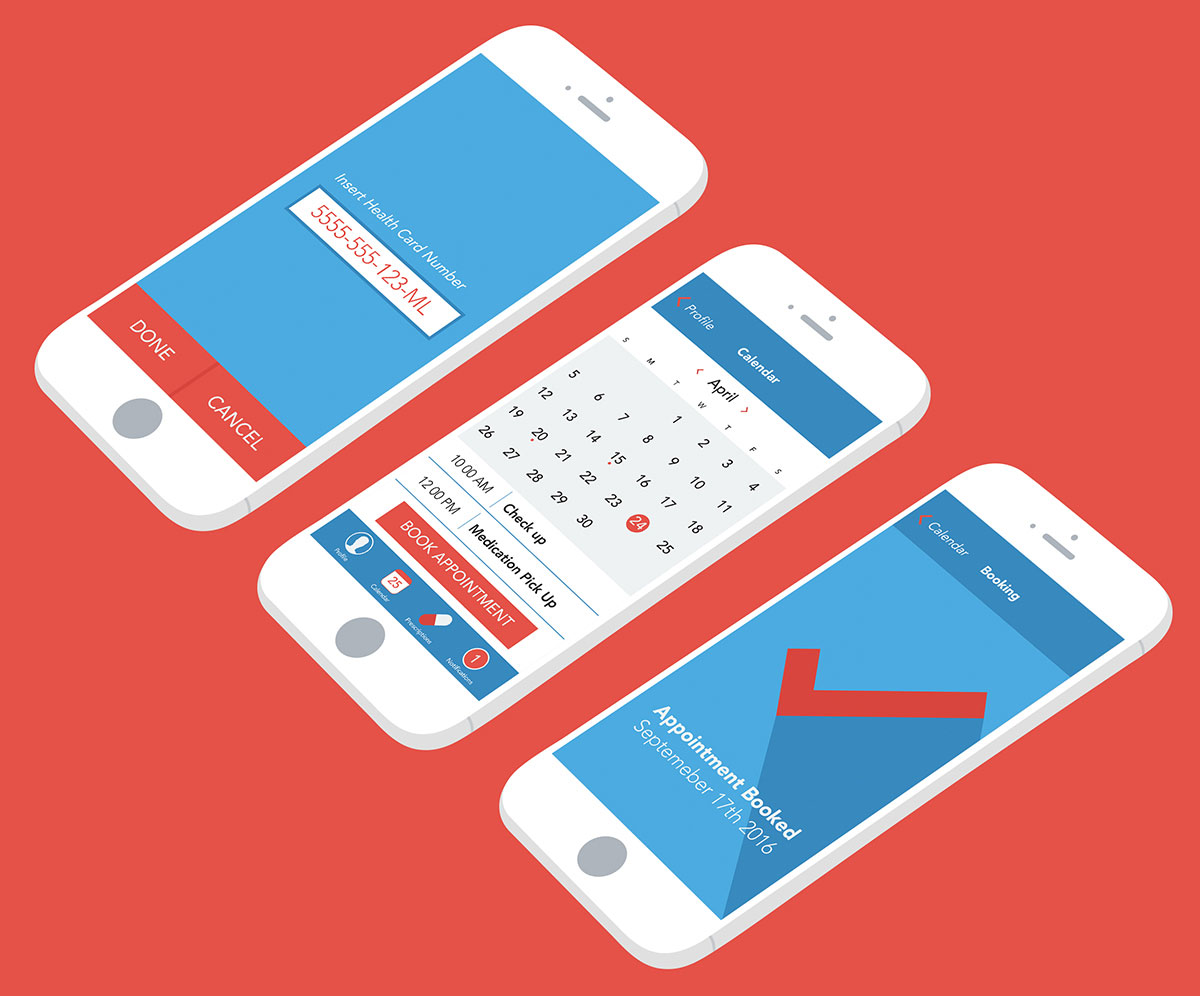
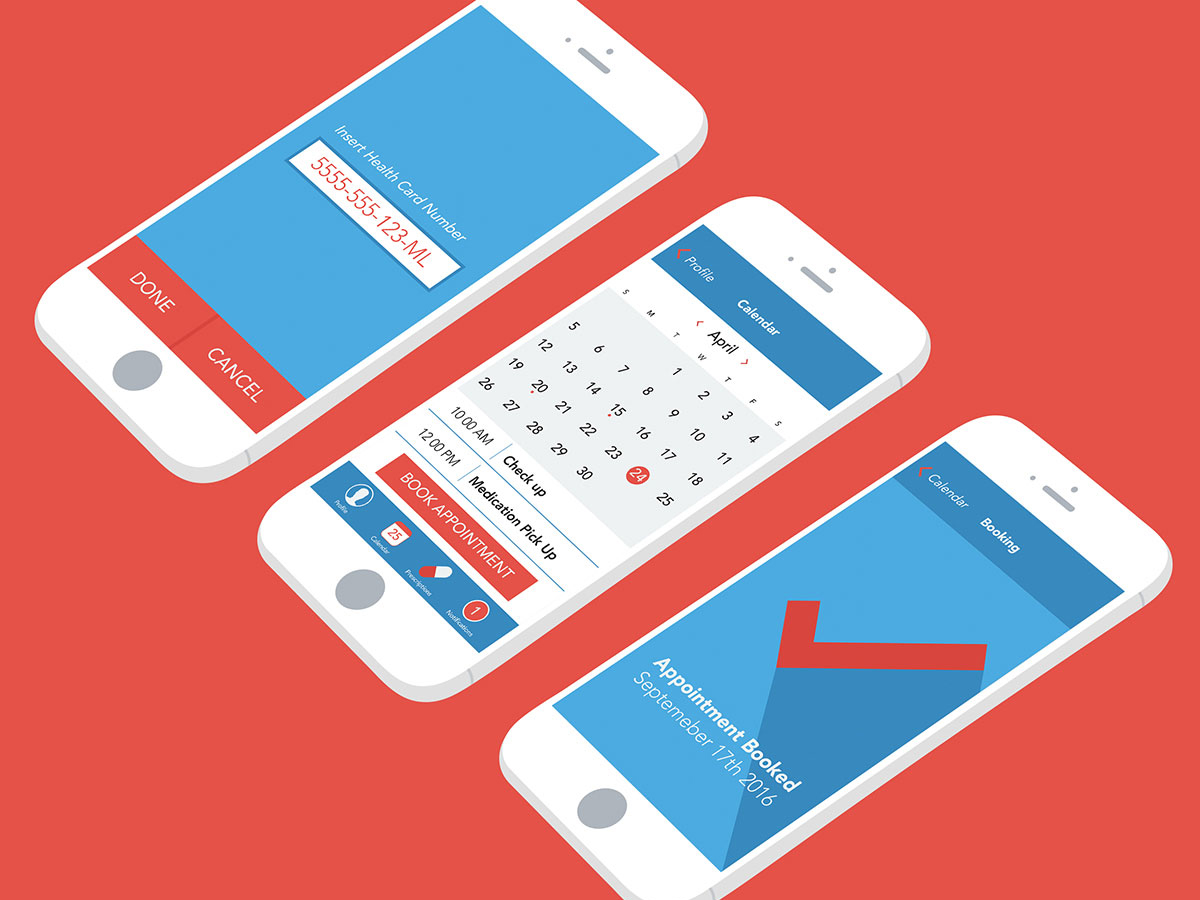
called kilter image

diff --git a/index.html b/index.html
@@ -23,7 +23,7 @@ layout: default
 
   <div class="unit unit-xs-1 unit-s-1 unit-m-1-2 unit-l-1-2">
      <figure class="padding">
-      <a href="{{site.baseurl}}/kilter/"><img class="workprev" src="{{site.baseurl}}/images/kilter-prev.jpg" alt="Kilter IOS Design"></a>
+      <a href="{{site.baseurl}}/kilter/"><img class="workprev" src="{{site.baseurl}}/images/kilter-mockup.jpg" alt="Kilter IOS Design"></a>
         <figcaption class="milli">Kilter – Mobile Application iOS Design <br> <a href="{{site.baseurl}}/kilter/" class="caption" aria-label="view kilter mobile app work page"><em>View work</em></a></figcaption>
     </figure>
     </div>
